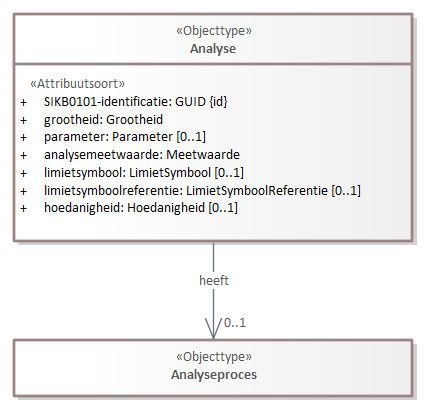
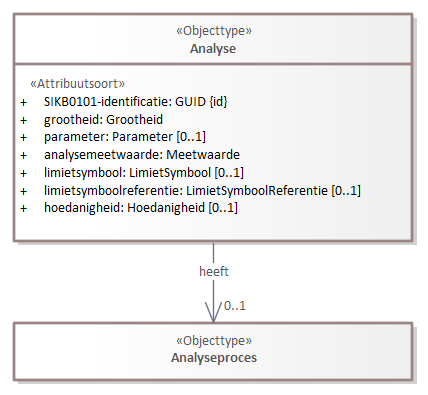
Conceptualmodel-MilieuhygienischbodemonderzoekSAD-1.08-1-20231205-20240213-113407

diff --git a/data/SAD-cat.msword.html b/data/SAD-cat.msword.html
@@ -15,7 +15,7 @@
    <body>
       <p>Conceptual model/Milieuhygienisch bodemonderzoek SAD/20231205</p>
       <p>Imvertor: Nightly-build.13</p>
-      <p>Model release: Conceptualmodel-MilieuhygienischbodemonderzoekSAD-1.08-1-20231205-20240213-112434</p>
+      <p>Model release: Conceptualmodel-MilieuhygienischbodemonderzoekSAD-1.08-1-20231205-20240213-113407</p>
       <hr>
       <section>
          <h1>Artikel 1 Definitie van registratieobject, entiteiten en attributen</h1>
@@ -1123,7 +1123,7 @@
                      </table>
                   </section>
                   <section id="detail_association_Model_Bodemonderzoek_analysemonstergrondgemengd">
-                     <h4>  analysemonstergrondgemengd</h4>
+                     <h4>  analysemonster grond gemengd</h4>
                      <table style="width: 100%;">
                         <colgroup style="width: 30%;"></colgroup>
                         <colgroup style="width: 70%;"></colgroup>
@@ -1153,7 +1153,7 @@
                            </tr>
                            <tr>
                               <th>Relatierol naam</th>
-                              <td>analysemonstergrondgemengd</td>
+                              <td>analysemonster grond gemengd</td>
                            </tr>
                            <tr>
                               <th>Bron</th>
@@ -6460,7 +6460,7 @@
                </section>
                <section id="global_class_Model_Analyse">
                   <h3>   Analyse</h3>
-                  <div class="imageinfo "><img src="Images/EAID_824E65FB_FE5D_4caf_BB20_F5A295A0CD8B.png" usemap="#imagemap-EAID_824E65FB_FE5D_4caf_BB20_F5A295A0CD8B" alt="Diagram "><map name="imagemap-EAID_824E65FB_FE5D_4caf_BB20_F5A295A0CD8B"><area shape="rect" alt="Analyseproces" coords="14,340,413,397" href="#global_class_Model_Analyseproces"><area shape="rect" alt="Analyse" coords="14,14,413,242" href="#global_class_Model_Analyse"></map></div>
+                  <div class="imageinfo "><img src="Images/EAID_824E65FB_FE5D_4caf_BB20_F5A295A0CD8B.png" usemap="#imagemap-EAID_824E65FB_FE5D_4caf_BB20_F5A295A0CD8B" alt="Diagram "><map name="imagemap-EAID_824E65FB_FE5D_4caf_BB20_F5A295A0CD8B"><area shape="rect" alt="Analyseproces" coords="14,323,413,381" href="#global_class_Model_Analyseproces"><area shape="rect" alt="Analyse" coords="14,14,413,242" href="#global_class_Model_Analyse"></map></div>
                   <table style="width: 100%;">
                      <colgroup style="width: 30%;"></colgroup>
                      <colgroup style="width: 70%;"></colgroup>

diff --git a/data/SAD-cat.respec.html b/data/SAD-cat.respec.html
@@ -1099,7 +1099,7 @@
             </table>
          </section>
          <section id="detail_association_Model_Bodemonderzoek_analysemonstergrondgemengd">
-            <h4>  analysemonstergrondgemengd</h4>
+            <h4>  analysemonster grond gemengd</h4>
             <table style="width: 100%;">
                <colgroup style="width: 30%;"></colgroup>
                <colgroup style="width: 70%;"></colgroup>
@@ -1129,7 +1129,7 @@
                   </tr>
                   <tr>
                      <th>Relatierol naam</th>
-                     <td>analysemonstergrondgemengd</td>
+                     <td>analysemonster grond gemengd</td>
                   </tr>
                   <tr>
                      <th>Bron</th>
@@ -6436,7 +6436,7 @@
       </section>
       <section id="global_class_Model_Analyse">
          <h3>   Analyse</h3>
-         <div class="imageinfo "><img src="data/Images/EAID_824E65FB_FE5D_4caf_BB20_F5A295A0CD8B.png" usemap="#imagemap-EAID_824E65FB_FE5D_4caf_BB20_F5A295A0CD8B" alt="Diagram "><map name="imagemap-EAID_824E65FB_FE5D_4caf_BB20_F5A295A0CD8B"><area shape="rect" alt="Analyseproces" coords="14,340,413,397" href="#global_class_Model_Analyseproces"><area shape="rect" alt="Analyse" coords="14,14,413,242" href="#global_class_Model_Analyse"></map></div>
+         <div class="imageinfo "><img src="data/Images/EAID_824E65FB_FE5D_4caf_BB20_F5A295A0CD8B.png" usemap="#imagemap-EAID_824E65FB_FE5D_4caf_BB20_F5A295A0CD8B" alt="Diagram "><map name="imagemap-EAID_824E65FB_FE5D_4caf_BB20_F5A295A0CD8B"><area shape="rect" alt="Analyseproces" coords="14,323,413,381" href="#global_class_Model_Analyseproces"><area shape="rect" alt="Analyse" coords="14,14,413,242" href="#global_class_Model_Analyse"></map></div>
          <table style="width: 100%;">
             <colgroup style="width: 30%;"></colgroup>
             <colgroup style="width: 70%;"></colgroup>
